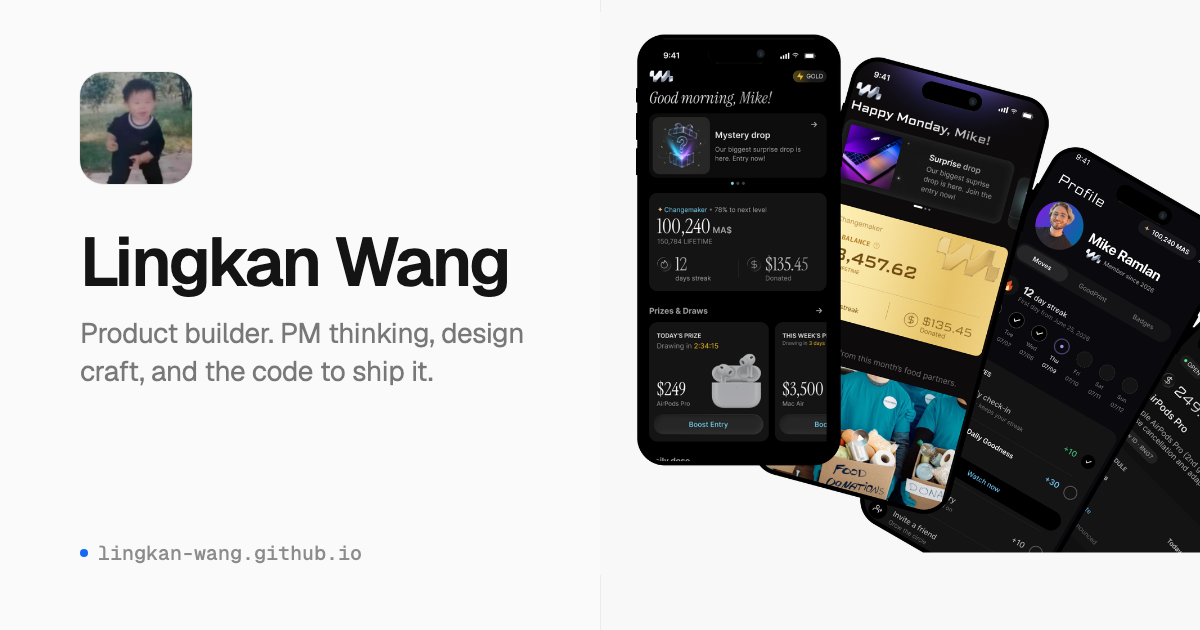
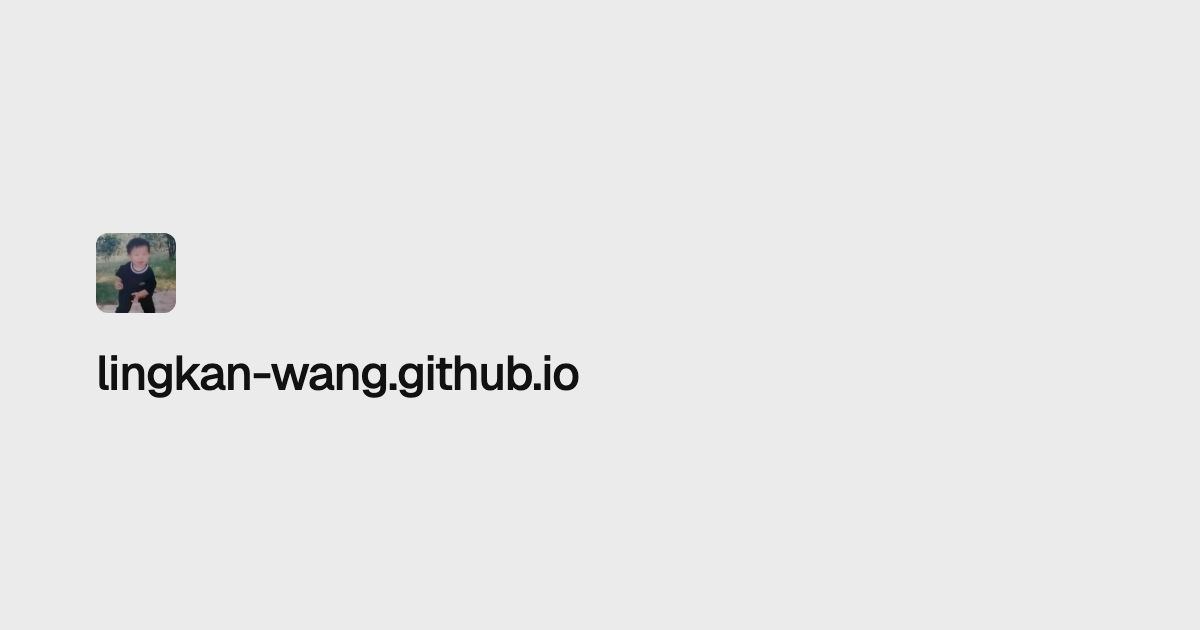
OG 分享图改为极简版
需求:参照 shedsgns.me 的预览卡,OG 图改成极简样式。
实现:浅灰底 #ebebeb,左侧垂直居中放头像(80px 圆角 12)+域名(Geist 500/48px),去掉作品图与简介;同步 og:image:alt。

diff --git a/index.html b/index.html
@@ -13,7 +13,7 @@
 <meta property="og:image" content="https://lingkan-wang.github.io/og.png" />
 <meta property="og:image:width" content="1200" />
 <meta property="og:image:height" content="630" />
-<meta property="og:image:alt" content="Lingkan Wang, product builder, with Masii app screens" />
+<meta property="og:image:alt" content="Lingkan Wang avatar and lingkan-wang.github.io" />
 <meta name="twitter:card" content="summary_large_image" />
 <meta name="twitter:image" content="https://lingkan-wang.github.io/og.png" />
 <script>
